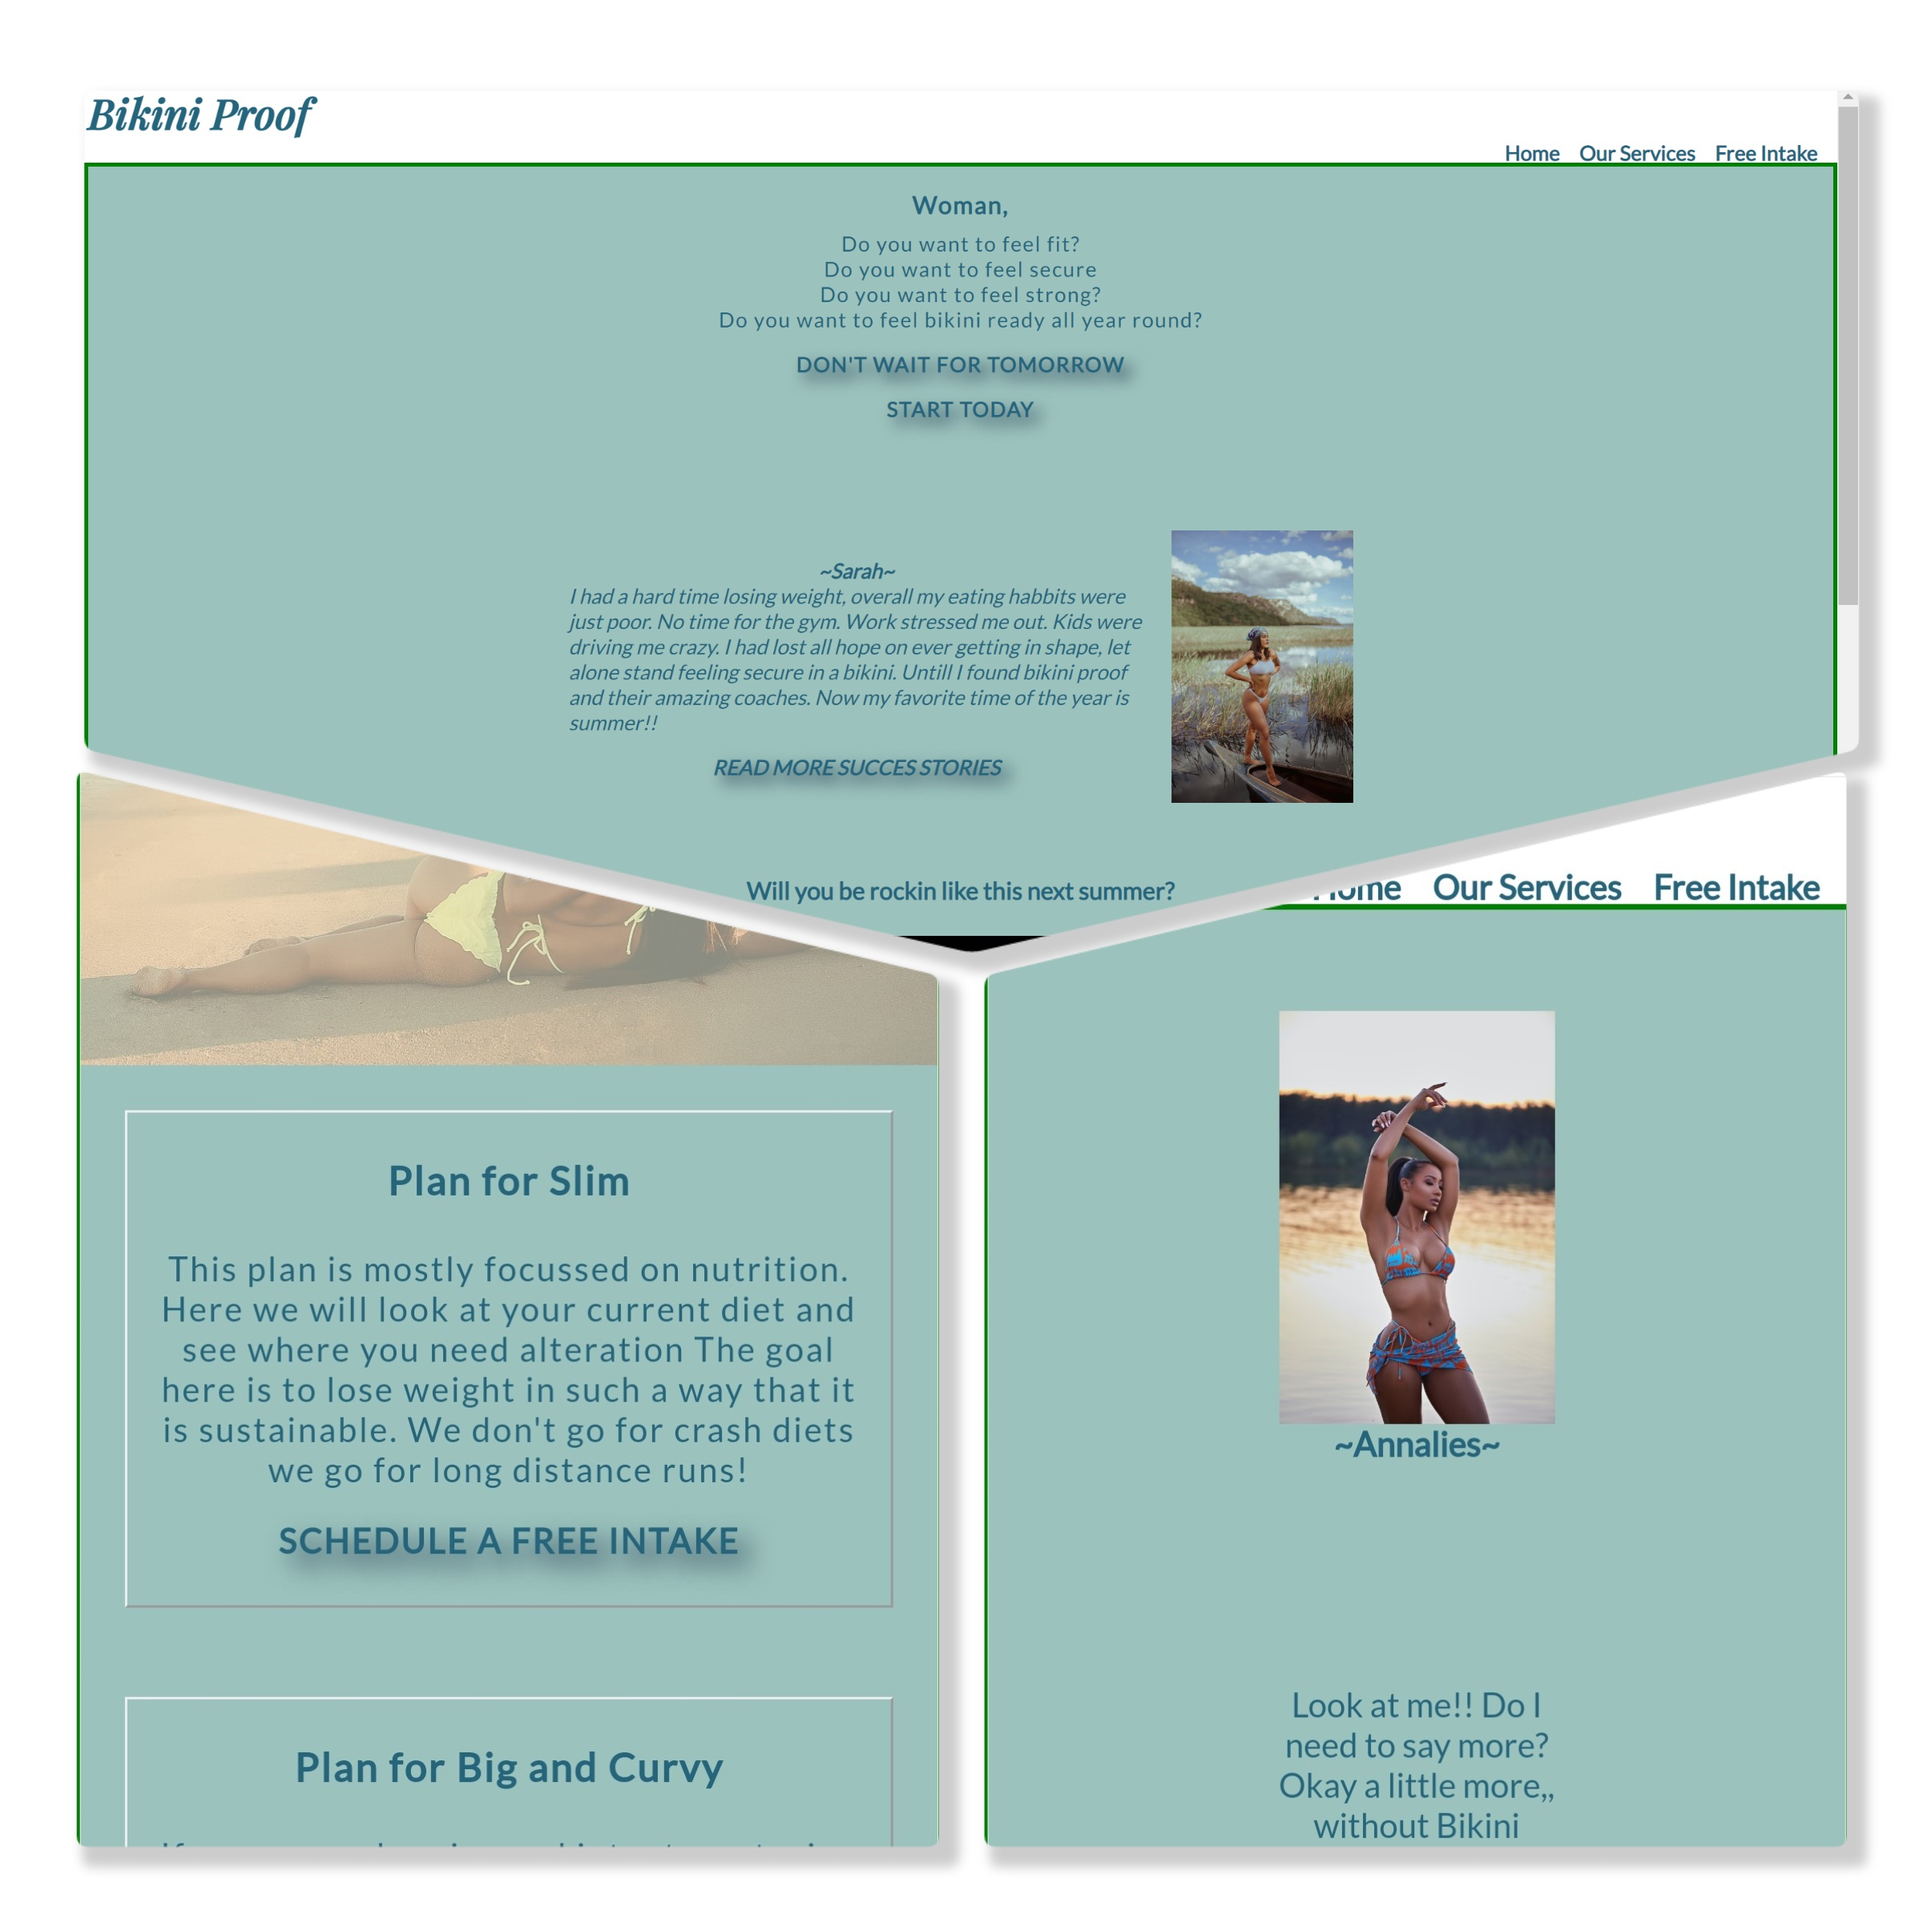
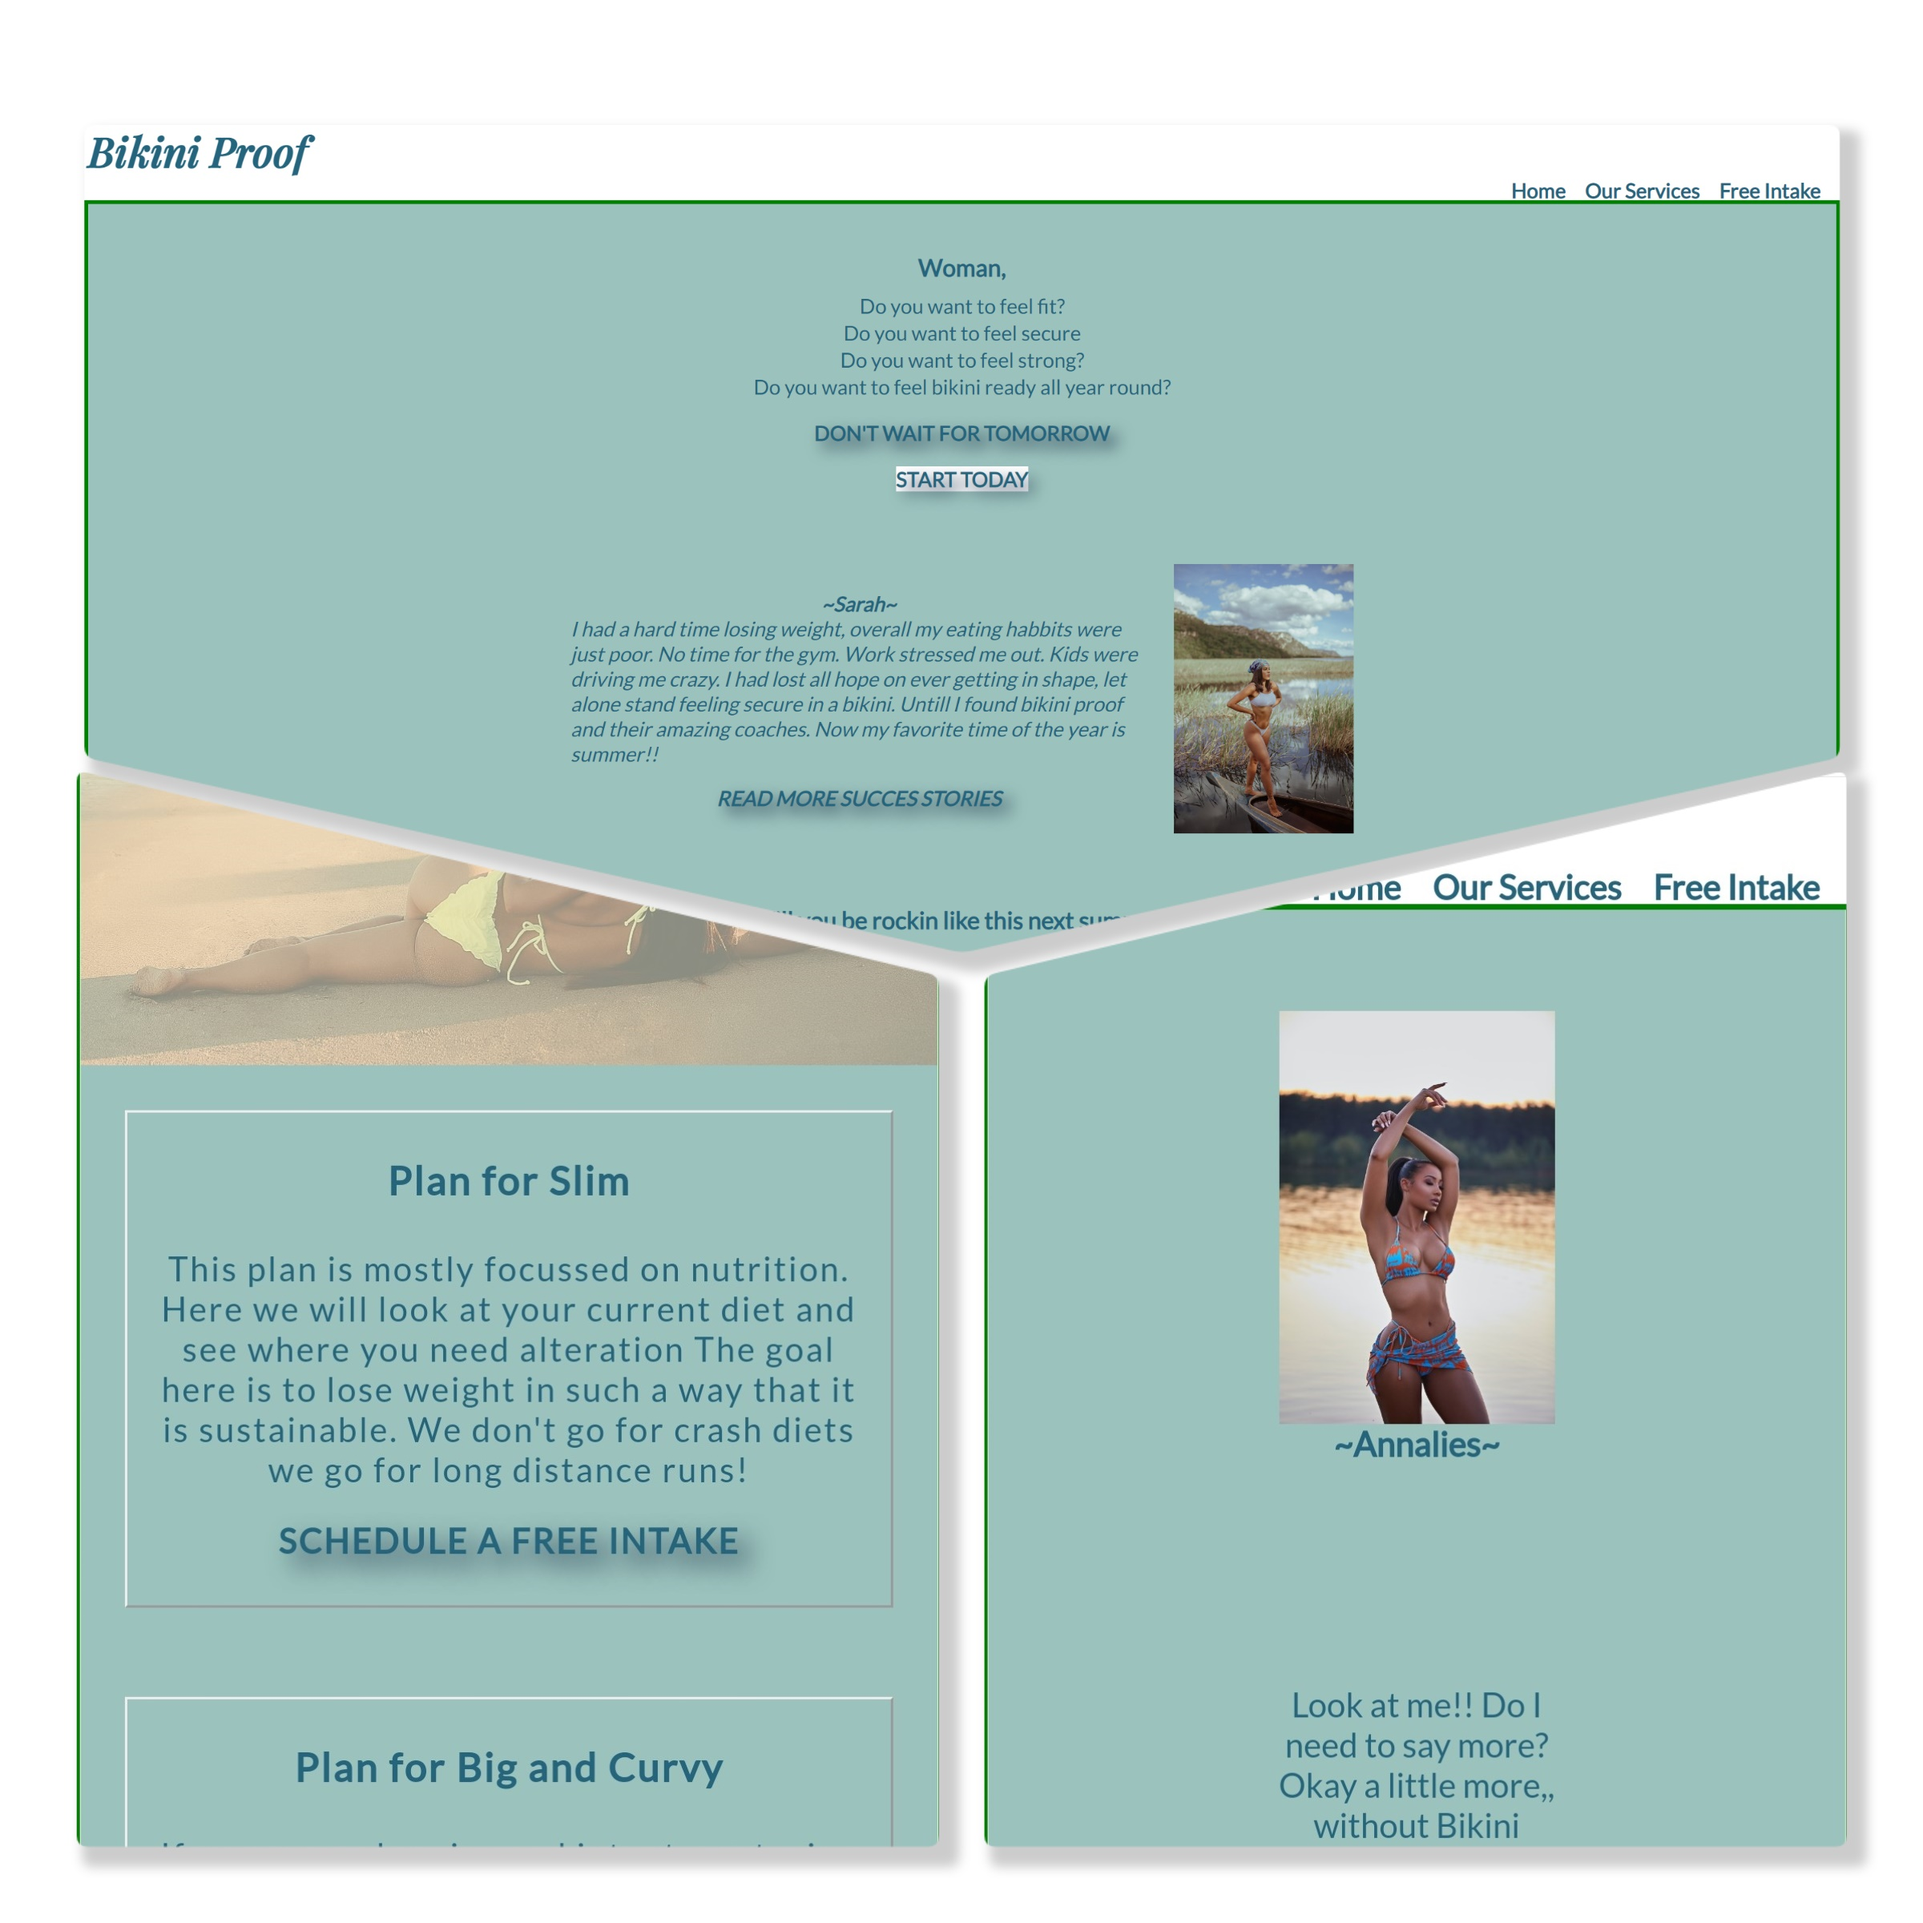
add documentation about the third section of the homepage including pictures

diff --git a/assets/css/style.css b/assets/css/style.css
@@ -177,6 +177,7 @@ footer ul li {
     background-color: #24657d;
     text-align: left;
     padding-left: 15px; 
+    padding-bottom: 12px; 
     list-style-type: none;
     text-align: center;
 }

diff --git a/README.md b/README.md
@@ -19,7 +19,7 @@ Bikini Proof is a website for women who want to get into shape. As the title sug
     It is made sure that the navigation bar sticks to the top of the page at all times. 
     This will help our visitors even better in navigating through our pages, as they can always redirect where to go. 
 
-![picture of the navigation bar](documentation%20/nav_bar.png)
+![picture of the navigation bar](documentation%20/navigation_bar.png)
 
 * The Home Page 
 
@@ -40,9 +40,13 @@ A photo of her current physique is added and a button under the text will guide 
 
  **Third Section** 
 
-This is an embedded youtube video meant as a little funny teaser of what might be possible to accomplish with the help of Bikini Proof. The video will not autoplay, it is necesary to be activated by the visitor. We want it to be a clear decision whether or not to see this clip. 
+This is an embedded youtube video meant as a little funny teaser of what might be possible to accomplish with the help of Bikini Proof. The video will not autoplay, it is necesary to be activated by the visitor. We want it to be a clear decision on the userend whether or not to see this clip. 
 
 ![Picture of the third section home page](documentation%20/catwalk.png)
+
+* The Footer 
+
+Just as the navigation bar the footer element is stuck to the bottom of the page at all times. The design is minimal but includes all that need to be brought across to the visitor. All the links open in an external tab. 
 
 
 
